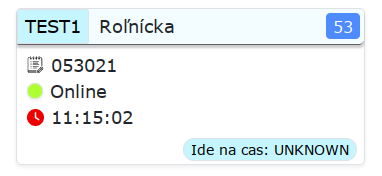
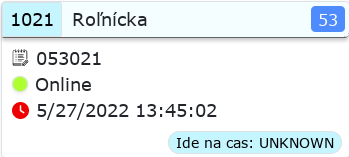
completed base docs

diff --git a/README.md b/README.md
@@ -1,0 +1,53 @@
+# Dizajn webstránky  
+
+Prvý design s ktorým som uspokojený.
+
+## Časti webovej stránky
+
+![Screenshot_webstránky](./docs/webpage-screenshot.png)
+
+### Hlavička stránky
+
+Hlavička webstránky obsahuje **Hľadanie**. Nemá teraz žiadnu funkcialitu, ale mal by existuvať pre nájdenie toho  
+
+### Items
+
+![Ide_na_cas](./docs/item-design-base.png)
+![Meska](./docs/item-design-base-meska.png)
+![Nadbieha](./docs/item-design-base-early.png)
+
+#### Hlavicka items
+
+V hlavicke je vidiet cislo vozidla s pozadim, ktore povie aj v akom stave je vozidla (ci meska, nadbieha alebo ci ide na cas). Farba pozadia pre cislo vozidla je **taka ista** ako farba pozadia v pravo dole, ako pri vypise stavu vozidla (ci meska, nadbieha alebo ide na cas).
+![Hlavicka_cislo_vozidla](./docs/item-design-time-status.png)
+
+Farba pozadia strednej casti hlavicky je tak isto podla stavu vozidla (ci meska, nadbieha alebo ide na cas).
+![Hlavicka_blur](./docs/item-design-time-status-blur.png)
+
+V pravom rohu je cislo linky. Pozadie predstavuje typ vozidla (modre - autobus, atd).
+![Hlavicka_cislo_linky](./docs/item-design-line-number.png)
+
+#### Informacie o vozidle
+
+V časti itemu kde sa udáva informácia o vozidle, prvý text hovorí o službu akú má vodič vozidla. Je to označené ikonkou poznámkového zošita s ceruzkou.  
+
+Druhý riadok zodpovedá stavu vozidla (online, offline). Ak je vozidlo je 'Online' krúžok je vyplnená zelenou farbou, ak je 'Offline' krúžok pred textom je vyplnená šedou farbou.
+![Information_part](./docs/item-design-information.png)
+
+Posledný riadok zodopedá času kedy bola správa odoslaná z vozidla (**state_dtime**).  
+![Msg_Time](./docs/item-design-msg-time.png)
+Mal by to byť implementované tak, že:
+
+- ak správa bola odoslaná z vozidla ten istý deň, tak vypíše len hodiny, minúty a sekundy
+- ak správa bola odoslaná z vozidla *iný deň* - napríklad o deň na to - tak vypíše sa celý dátum vo formáte: dd/MM/YYYY HH:mm:ss.
+
+Existujú 3 ikonky pre túto časť správy a každý má iný význam:
+
+- Správa bola odoslaná pred 1-2 minútami
+![before2min](./docs/item-design-msg-time-okay.png)
+
+- Správa bola odoslaná pred viac ako 2 minút, ale menej ako 5 minút
+![before5min](./docs/item-design-msg-time-notsookay.png)
+
+- Správa bola odoslaná pred viac ako 5 minútami
+![after5min](./docs/item-design-msg-time-notokayatall.png)
